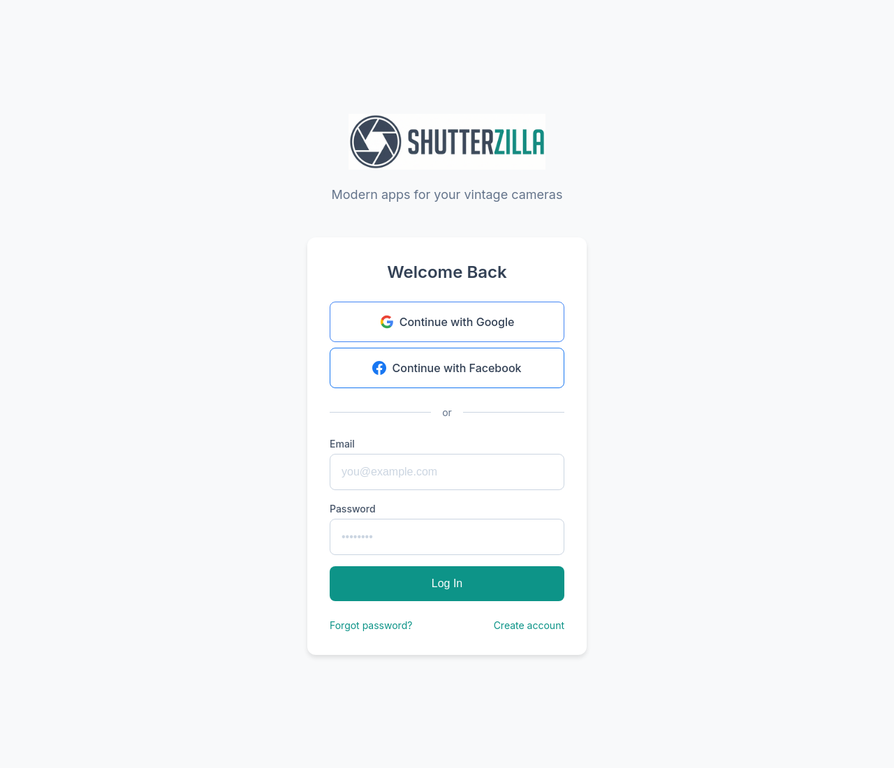
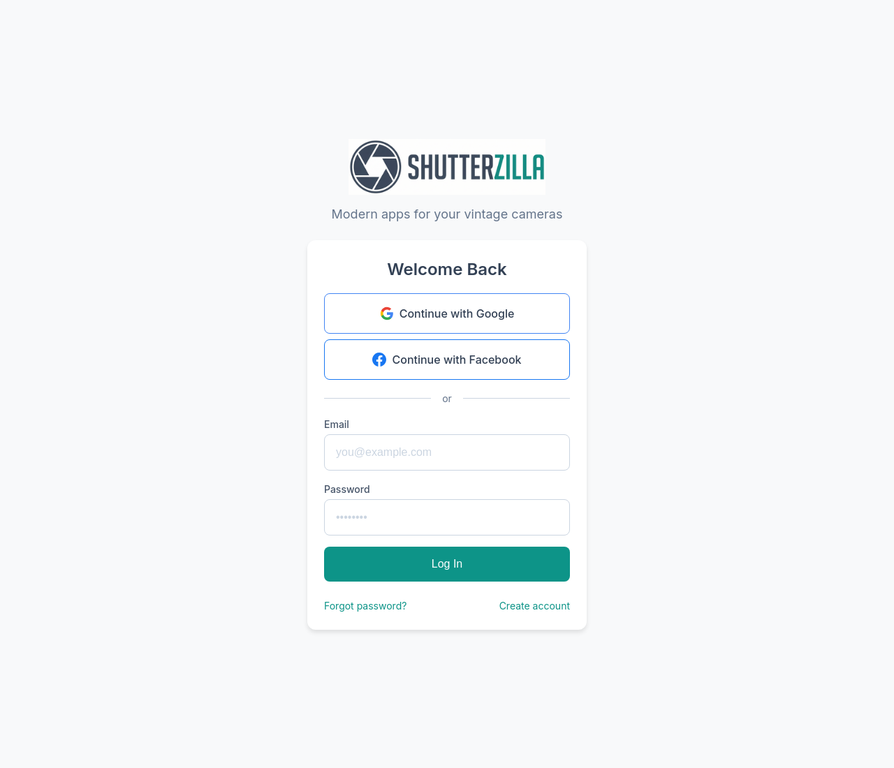
Reduce vertical spacing on landing page to fit without scrolling

Changed region(s): [[0.3624, 0.3438, 0.6644, 0.8438], [0.3624, 0.1562, 0.6342, 0.2812]]

diff --git a/mockups/landing-page.html b/mockups/landing-page.html
@@ -14,11 +14,11 @@
       align-items: center;
       justify-content: center;
       background-color: var(--color-background);
-      padding: var(--spacing-xl);
+      padding: var(--spacing-md);
     }
     
     .landing__logo {
-      margin-bottom: var(--spacing-md);
+      margin-bottom: var(--spacing-sm);
     }
     
     .landing__logo img {
@@ -29,14 +29,14 @@
     .landing__tagline {
       font-size: var(--font-size-lg);
       color: var(--color-slate-light);
-      margin-bottom: var(--spacing-2xl);
+      margin-bottom: var(--spacing-lg);
     }
     
     .login-card {
       background: var(--color-white);
       border-radius: var(--radius-lg);
       box-shadow: var(--shadow-md);
-      padding: var(--spacing-xl);
+      padding: var(--spacing-lg);
       width: 100%;
       max-width: 400px;
     }
@@ -46,14 +46,14 @@
       font-weight: 600;
       color: var(--color-slate-dark);
       text-align: center;
-      margin-bottom: var(--spacing-lg);
+      margin-bottom: var(--spacing-md);
     }
     
     .social-buttons {
       display: flex;
       flex-direction: column;
       gap: var(--spacing-sm);
-      margin-bottom: var(--spacing-lg);
+      margin-bottom: var(--spacing-md);
     }
     
     .social-btn {
@@ -89,7 +89,7 @@
       display: flex;
       align-items: center;
       gap: var(--spacing-md);
-      margin-bottom: var(--spacing-lg);
+      margin-bottom: var(--spacing-md);
     }
     
     .divider__line {
